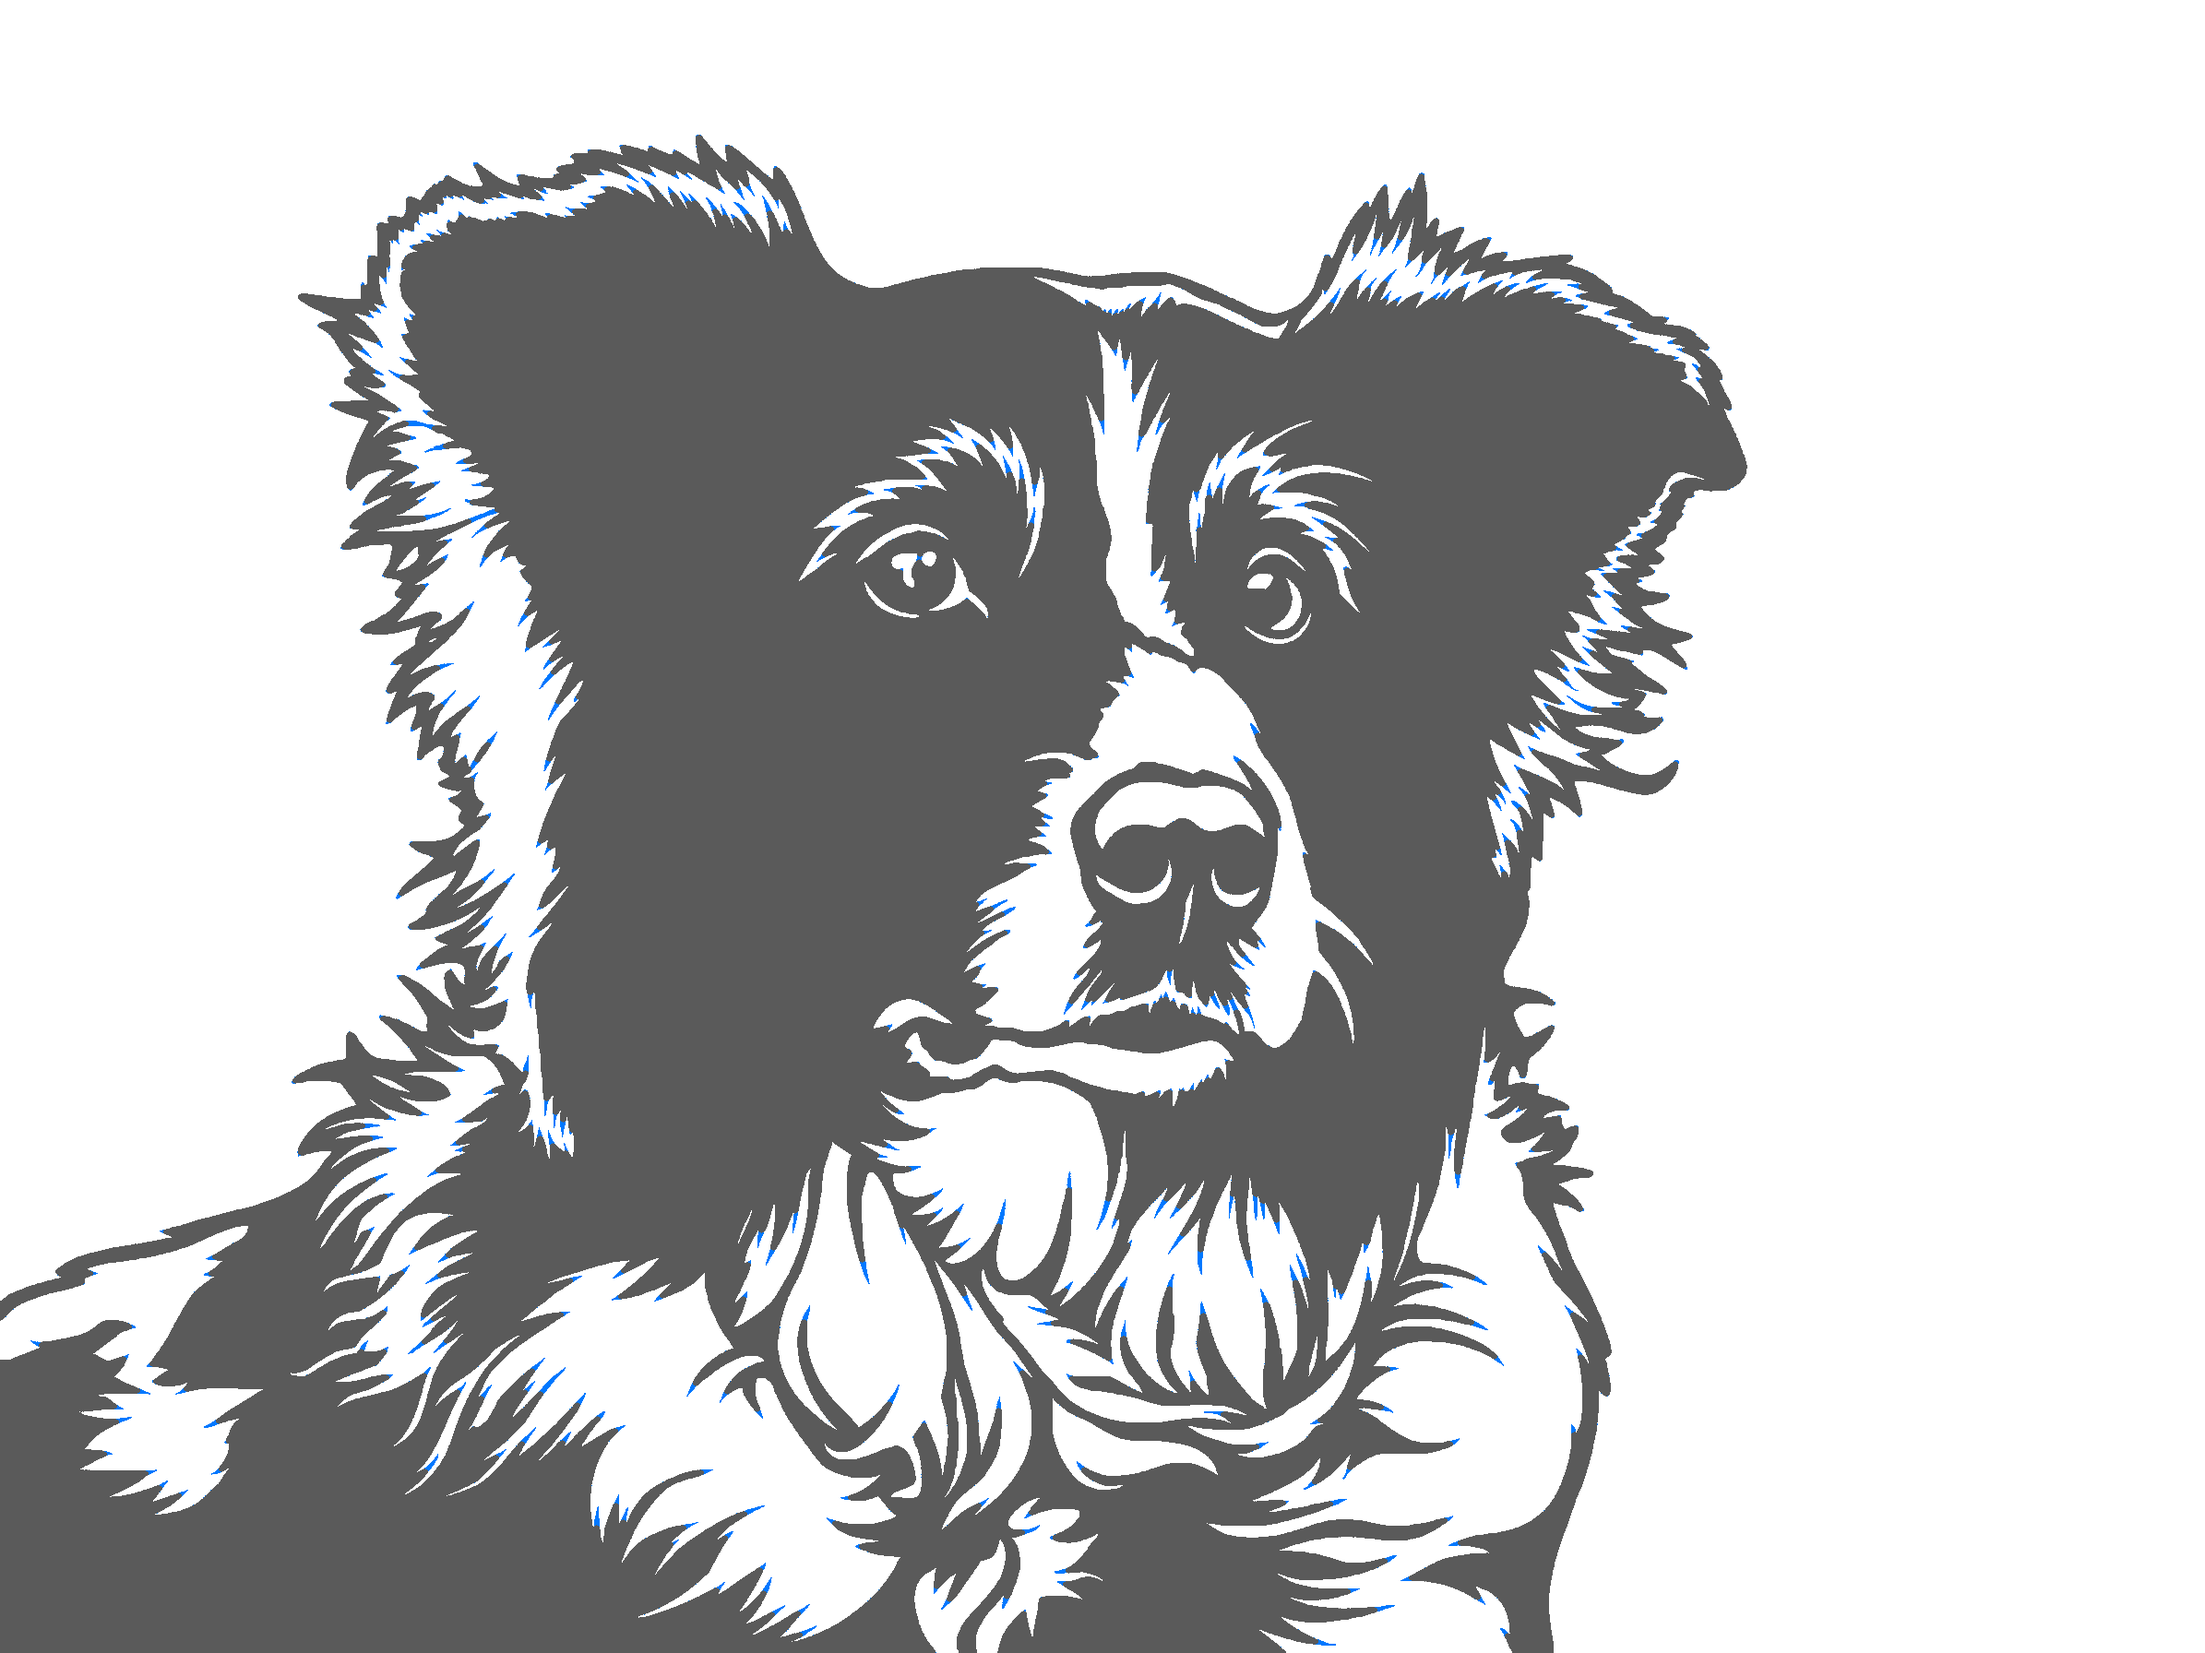
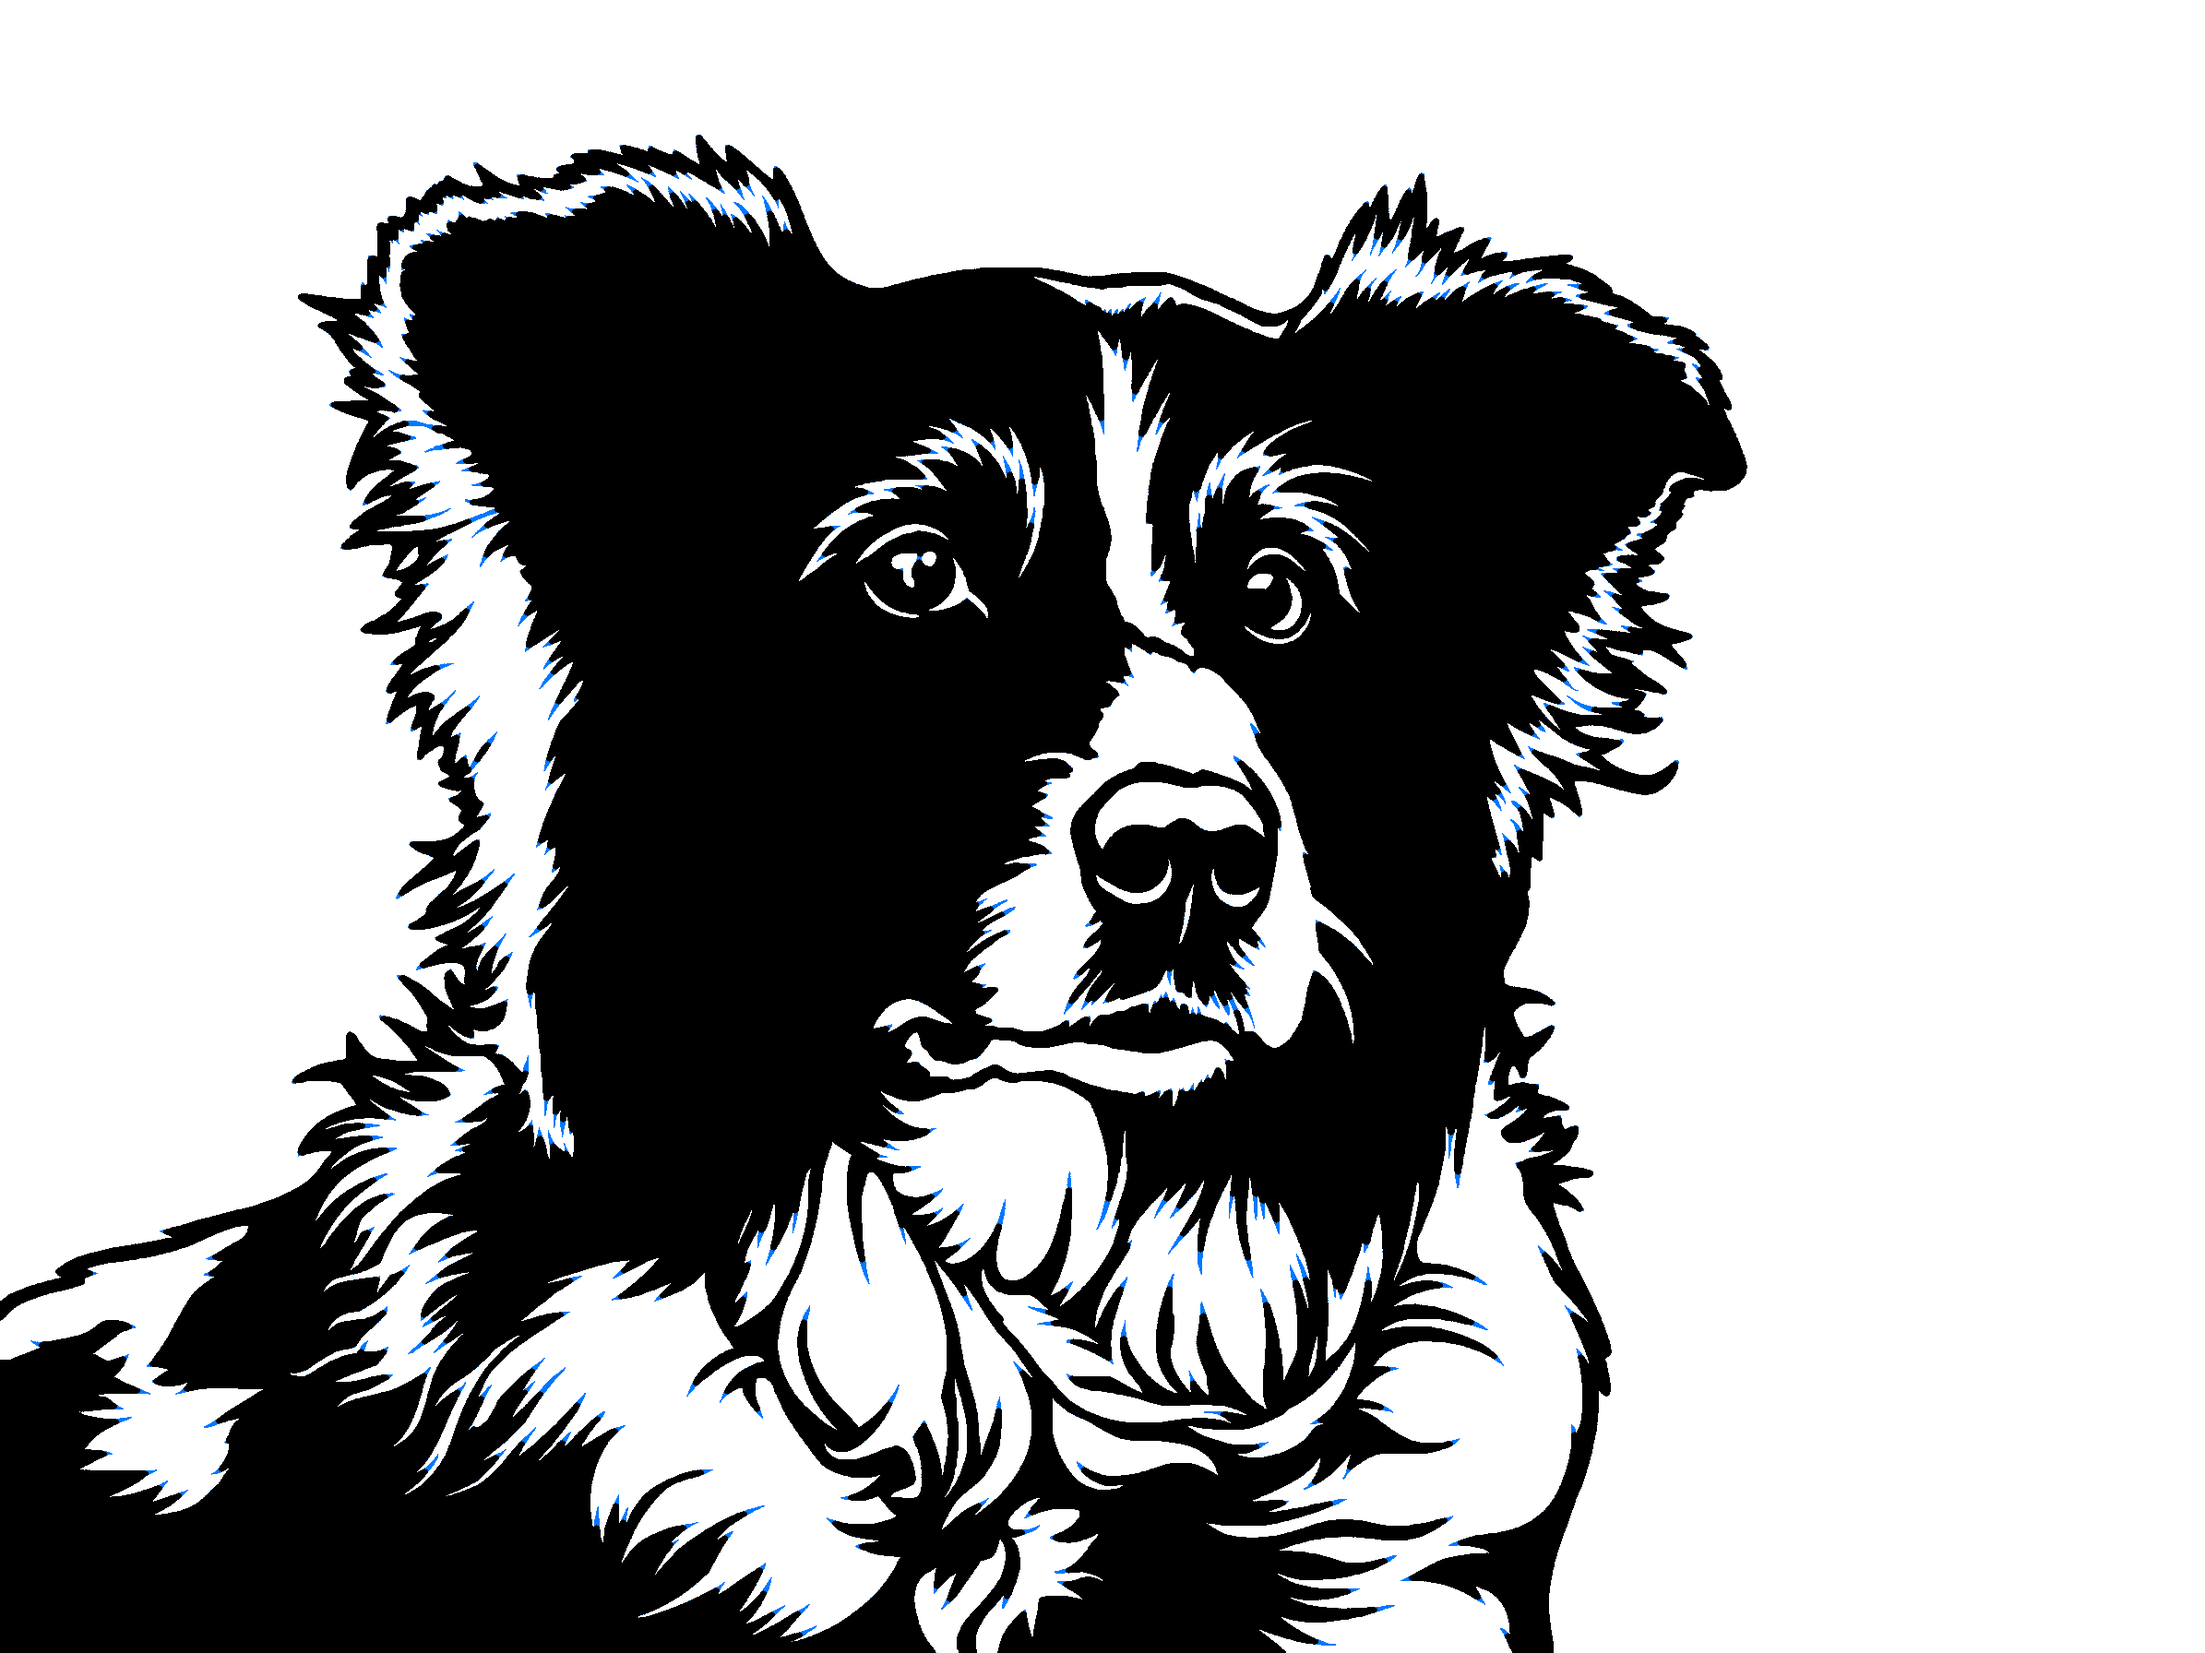
Job READMEs: photo vs result side by side, loose pieces flagged
The job README now opens with two images at the same size: the supplied
photo and the result the run stopped at. If loose pieces remain, the
right-hand image is the check overlay with them in red, followed by a
WARNING box saying they need hand repair in xTool Studio; otherwise it
is the SVG with a NOTE box. The check overlay now paints metal black
instead of gray, so it looks like the cut art.

Claude-Session: https://claude.ai/code/session_01Q8ewsWWMn4vfJCFDUTwusv

diff --git a/notan.py b/notan.py
@@ -81,7 +81,7 @@ def cmd_check(a):
     metal = binarize(cv2.imread(a.img))
     rep, lab, islands, specks, thin = check(metal, a.width_mm, a.min_mm)
     vis = np.full(metal.shape + (3,), 255, np.uint8)
-    vis[metal] = (90, 90, 90)
+    vis[metal] = (0, 0, 0)                          # black, like the cut art
     vis[thin] = (255, 120, 0)                       # blue (BGR)
     vis[np.isin(lab, islands)] = (0, 0, 255)        # red
     base = os.path.splitext(a.img)[0]

diff --git a/SKILL.md b/SKILL.md
@@ -123,6 +123,8 @@ Move the original photo into the job folder (`mv <photo> <job>/`); don't copy it
 
 Write `<job>/README.md` with the next steps for this piece. Model it on `<skill-dir>/examples/portrait/020703-070728_notan/README.md`, which is a real run (the portrait example): same sections, same order, same level of detail, but every fact comes from **this** run. That means:
 - the photo name (now in the job folder, so no `../`), image to cut, width, date, rounds used
+- right under those lines, a two-image table: the supplied photo and the result the run stopped at, side by side, both as `<img ... width="600">` so they show at the same size (if their aspect ratios differ, give both the same `height` instead). If loose pieces remain, the right-hand image is `roundN_clean_check.png` (loose pieces in red) and its column title says how many loose pieces are shown in red; never title it as a finished cut file. If none remain, it is `<stem>.svg`, titled as having no loose pieces.
+- directly under that table, a GitHub alert box. If islands remain (not specks), use `> [!WARNING]`: in bold, how many loose pieces and where they are, then that they would fall out when cut and must be repaired by hand in xTool Studio before cutting, with the steps that do it. If none remain, use `> [!NOTE]` saying no loose pieces and no hand repairs needed.
 - a status table built from the last `check` (loose pieces named by where they are, specks removed, thin %)
 - the island fixes that fit *these* islands (drop that section if there are none)
 - the thin-metal note (drop it if under 0.5 %)

diff --git a/examples/dogs/jesse_notan/README.md b/examples/dogs/jesse_notan/README.md
@@ -5,6 +5,13 @@ Image to cut: **`round2_clean.png`**, planned at **400 mm wide** (the default; n
 Cut file: **`jesse.svg`**, traced from it with potrace. The page is 400 × 300 mm; the art inside is about 317 × 275 mm, because the image has a white margin on the right and at the top.
 Made with the `notan` skill on 2026-10-04 in 2 Gemini rounds. Every prompt is saved as `prompt1–2.txt`.
 
+| Supplied photo | Where we stopped: `jesse.svg`, no loose pieces |
+| --- | --- |
+| <img src="jesse.jpg" alt="supplied photo" width="600"> | <img src="jesse.svg" alt="jesse.svg, the cut file" width="600"> |
+
+> [!NOTE]
+> **No loose pieces.** Nothing falls out when cut, and no hand repairs are needed in xTool Studio.
+
 ## Where it stands
 
 | Check | Result | What to do |
@@ -15,6 +22,7 @@ Made with the `notan` skill on 2026-10-04 in 2 Gemini rounds. Every prompt is sa
 | Metal thinner than 1 mm | 1.07 % of the metal, mostly pointed fur tips | Accept it, or thicken the worst tips (step 3) |
 
 `round2_clean_check.png` shows what's left: blue = too thin. There's no red, so nothing falls out.
+
 Round 1 had two loose pieces (a fur stroke at the bottom edge and a whisker stroke in the muzzle). Round 2 bridged both and thickened the fur tips, without changing anything else.
 
 ## 1. Pick the size

diff --git a/examples/portrait/020703-070728_notan/README.md b/examples/portrait/020703-070728_notan/README.md
@@ -5,6 +5,13 @@ Image to cut: **`round8_clean.png`**, planned at **400 mm wide** (the default; n
 Cut file: **`020703-070728.svg`**, traced from it with potrace. The page is 400 × 300 mm; the art inside is about 359 × 291 mm, because the image has a white margin on the left.
 Made with the `notan` skill on 2026-10-04 in 8 Gemini rounds, plus round 9 as an alternative. Every prompt is saved as `prompt1–9.txt`.
 
+| Supplied photo | Where we stopped: round 8, **3 loose pieces in red** (blue = too thin) |
+| --- | --- |
+| <img src="020703-070728.jpg" alt="supplied photo" width="600"> | <img src="round8_clean_check.png" alt="round 8 with the loose pieces in red" width="600"> |
+
+> [!WARNING]
+> **This image still has 3 loose pieces: the mouth and the two shirt spikes in the bottom-right corner.** They would fall out when cut, so they must be repaired by hand in xTool Studio before cutting. Step 3 bridges the mouth, and step 4 connects the shirt spikes.
+
 ## Where it stands
 
 | Check | Result | What to do |
